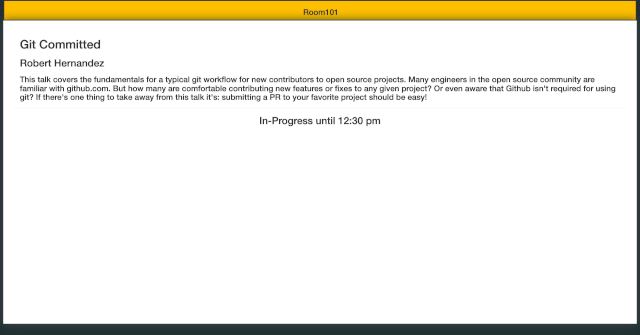
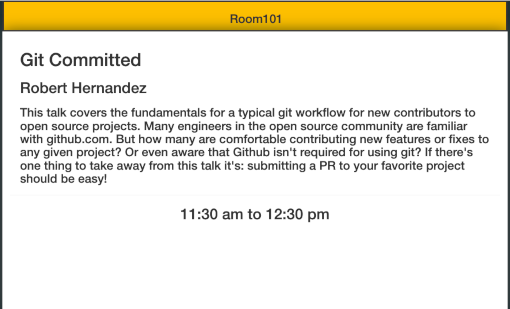
room view optimized for 1024x768

diff --git a/archive/server/room.php b/archive/server/room.php
@@ -447,9 +447,9 @@ asort($order, SORT_NUMERIC);
                         }
                         ?>
                     </a>
-                    <div class="media-body" style="vertical-align: middle; height: 850px; margin: 30px">
-                        <h1 class="media-heading" style="margin: 20px;"><?php echo $data[$key][3]; ?></h2>
-                        <h2 class="media-heading" style="margin: 20px;"><?php echo $data[$key][2]; ?></h1>
+                    <div class="media-body" style="vertical-align: middle; height: 525px; margin: 15px">
+                        <h1 class="media-heading" style="margin: 20px;"><?php echo $data[$key][3]; ?></h1>
+                        <h2 class="media-heading" style="margin: 20px;"><?php echo $data[$key][2]; ?></h2>
                         <h3 style="margin: 20px;"><?php echo $data[$key][7]; ?></h3>
                         <hr/>
 					    <?php
@@ -486,15 +486,15 @@ asort($order, SORT_NUMERIC);
                 <div class="media">
                     <div class="row">
                         <div class="col-md-12" style="text-align: center; vertical-align: middle;">
-                            <div class="well" style="height: 525px; vertical-align: middle;">
-                            <div class="row" style="margin: 30px">&nbsp;</div>
-                                <img src="images/WiFi-Sign.png">
+                            <div class="well" style="height: 300px; vertical-align: middle;">
+                            <div class="row" style="margin: 5px">&nbsp;</div>
+                                <img src="images/WiFi-Sign.png" width="487" height="186">
                             </div>
-                            <div class="row" style="margin: 30px">
-                                <h1 style='text-align: center;'>Thank You to our Diamond and Platinum Sponsors</h1>
+                            <div class="row" style="margin: 15px">
+                                <h2 style='text-align: center;'>Thank You to our Diamond and Platinum Sponsors</h2>
                                 <?php
                                 foreach ($diamond_platinum_sponsors as $sponsor) {
-                                    echo "<img src='images/sponsors/" . $sponsors[$sponsor] . "' style='margin: 25px';>";
+                                    echo "<img src='images/sponsors/" . $sponsors[$sponsor] . "' width='165' height='165' style='margin: 15px';>";
                                 }
                                 ?>
                             </div>
@@ -506,11 +506,11 @@ asort($order, SORT_NUMERIC);
             <?php if (count($sponsors_for_room) > 0) { ?>
             <div class="item">
                 <div class="media">
-                    <div class="row" style="text-align: center; vertical-align: middle; height: 850px;">
-                        <h1 style='text-align: center;'>Thank You To our <?php echo "$sponsor_class "; if (count($sponsors_for_room) > 1) { echo "Sponsors"; } else { echo "Sponsor"; } ?></h1>
+                    <div class="row" style="text-align: center; vertical-align: middle; height: 550px;">
+                        <h2 style='text-align: center;'>Thank You to our <?php echo "$sponsor_class "; if (count($sponsors_for_room) > 1) { echo "Sponsors"; } else { echo "Sponsor"; } ?></h2>
                         <?php
                         foreach ($sponsors_for_room as $sponsor) {
-                            echo "<img src='images/sponsors/" . $sponsors[$sponsor] . "' style='margin: 25px';>";
+                            echo "<img src='images/sponsors/" . $sponsors[$sponsor] . "' height='137' width='137' style='margin: 15px';>";
                         }
                         ?>
                     </div>

diff --git a/archive/README.md b/archive/README.md
@@ -31,15 +31,7 @@ example: `http://signs.scale.lan/`
 
 The index page call be called with a room argument to display a room specific view that will display information relevant to that room.
 
-examples: 
-* `http://signs.scale.lan/?room=ballroom-de`
-* `http://signs.scale.lan/?room=room-101`
-
-![Room View Session](./.README/room_view_session.png)
-
-![Room View Wifi](./.README/room_view_wifi.png)
-
-![Room View Sponsors](./.README/room_view_sponsors.png)
+Optimized for viewing at `1024x768` using one of the following room values:
 
 * ballroom-a
 * ballroom-b
@@ -57,6 +49,16 @@ examples:
 * room-209
 * room-211
 * room-212
+
+examples:
+* `http://signs.scale.lan/?room=ballroom-de`
+* `http://signs.scale.lan/?room=room-101`
+
+![Room View Session](./.README/room_view_session.png)
+
+![Room View Wifi](./.README/room_view_wifi.png)
+
+![Room View Sponsors](./.README/room_view_sponsors.png)
 
 #### Development
 
